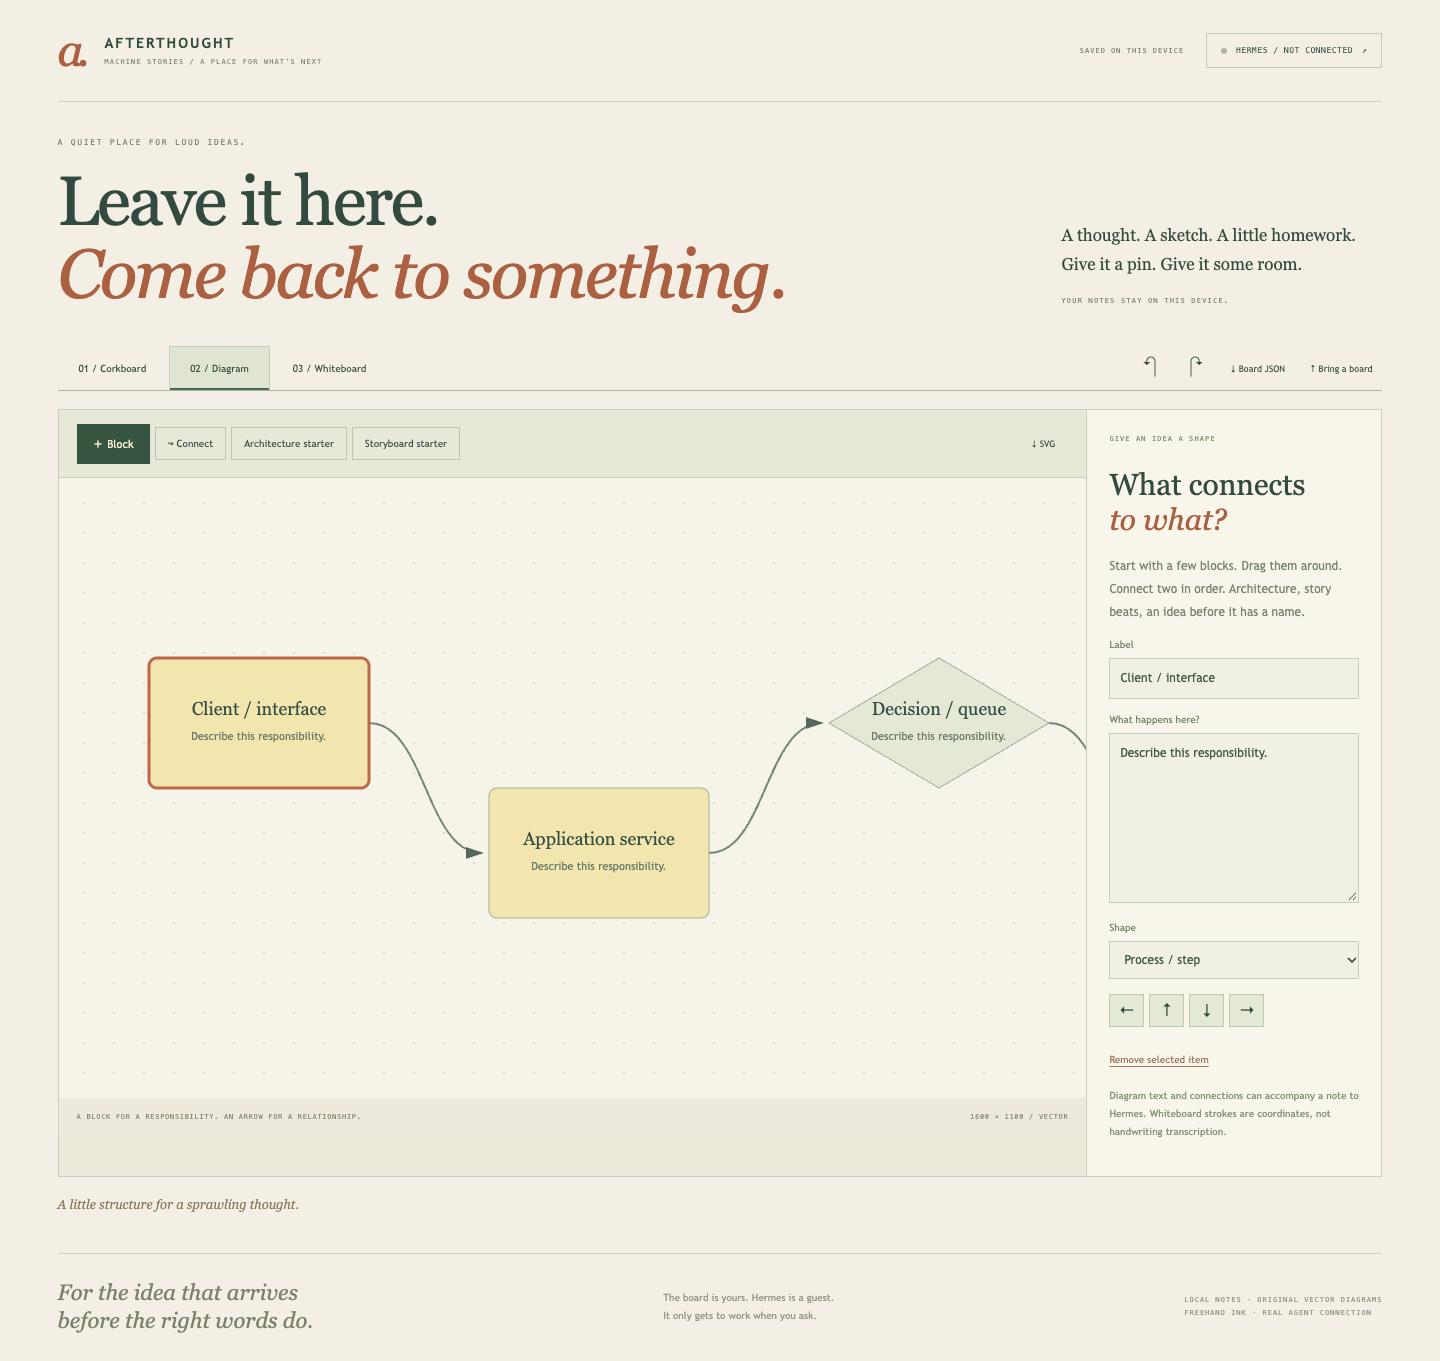
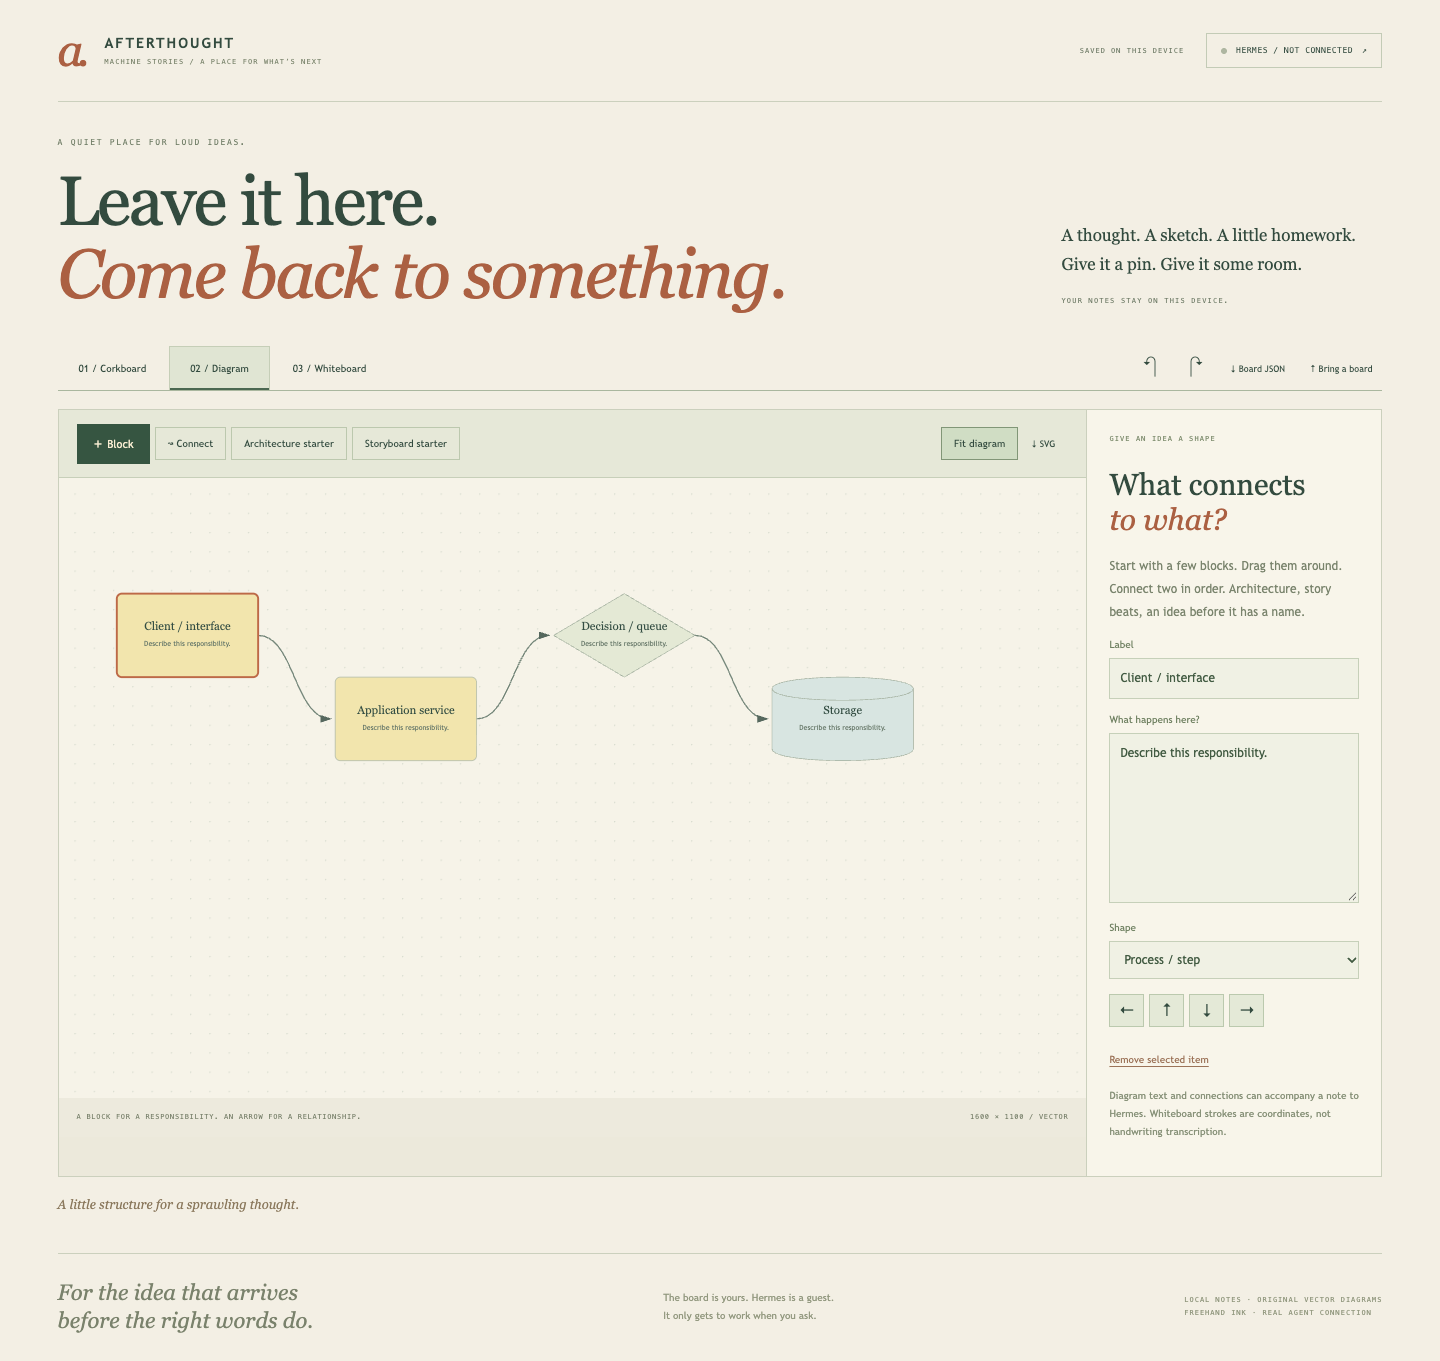
Polish diagram navigation and record verified Afterthought release

diff --git a/src/main.ts b/src/main.ts
@@ -42,7 +42,7 @@ $("app").innerHTML =
 <main><section class="intro"><div><p class="eyebrow">A QUIET PLACE FOR LOUD IDEAS.</p><h1>Leave it here.<br><em>Come back to something.</em></h1></div><div class="intro-note">A thought. A sketch. A little homework.<br>Give it a pin. Give it some room.<span>YOUR NOTES STAY ON THIS DEVICE.</span></div></section>
 <div class="workspace-top"><nav aria-label="Workspace mode"><button data-mode="board" aria-pressed="true">01 / Corkboard</button><button data-mode="diagram" aria-pressed="false">02 / Diagram</button><button data-mode="whiteboard" aria-pressed="false">03 / Whiteboard</button></nav><div class="history"><button id="undo" aria-label="Undo edit">↶</button><button id="redo" aria-label="Redo edit">↷</button><button id="export-board">↓ Board JSON</button><label class="file-label" for="import-board">↑ Bring a board</label><input id="import-board" class="sr-only" type="file" accept=".json,application/json"></div></div>
 <section id="board-panel" class="workspace"><div class="surface-area"><div class="mode-toolbar"><label class="board-title-label" for="board-title">ON THE BOARD<input id="board-title" maxlength="120"></label><div><button id="new-note" class="primary">＋ A new thought</button><button id="board-png" class="quiet">↓ Snapshot</button></div></div><div id="cork-viewport" class="cork-viewport"><div id="cork" class="cork" aria-label="Corkboard with movable notes"><div class="board-tag">NO THOUGHT TOO SMALL.<span>KEEP THE UNFINISHED ONES, TOO.</span></div><div id="notes"></div></div></div><div class="surface-caption"><span>DRAG A NOTE BY ITS TOP EDGE. SCROLL TO FIND MORE ROOM.</span><span id="note-count"></span></div></div><aside id="note-inspector"><div class="inspector-id">THE NOTE IN FRONT OF YOU</div><div id="empty-selection"><h2>Pick a thought.<br><em>Stay a while.</em></h2><p>Select a note to write, choose a color, or give Hermes a task.</p><button id="empty-new" class="outline">＋ Make some room for an idea</button></div><div id="note-editor" hidden><label for="note-title">A little title</label><input id="note-title" maxlength="120"><label for="note-body">The brain dump</label><textarea id="note-body" maxlength="20000" rows="10" placeholder="It doesn’t have to be polished."></textarea><div id="note-colors" class="swatches" role="group" aria-label="Note color">${["butter", "rose", "sage", "blue"].map((c) => `<button data-color="${c}" class="swatch ${c}" aria-label="${c} note" aria-pressed="false"></button>`).join("")}</div><div id="task-state" role="status"></div><button id="read-reply" class="outline full" hidden>↗ Read Hermes’s reply</button><div class="agent-context"><label><input id="include-diagram" type="checkbox"> Include this board’s diagram</label><label><input id="include-ink" type="checkbox"> Include whiteboard stroke coordinates</label></div><button id="ask-agent" class="primary full">↗ Leave this with Hermes</button><button id="recover-agent" class="outline full" hidden>Recover this request</button><button id="check-agent" class="outline full" hidden>Check the run again</button><button id="stop-agent" class="outline full" hidden>Ask Hermes to stop</button><p class="privacy-note">Only the selected note and checked attachments are sent. Your Hermes provider and tools determine where that work runs.</p><button id="delete-note" class="text-button">Remove this note</button></div></aside></section>
-<section id="diagram-panel" class="workspace" hidden><div class="surface-area"><div class="mode-toolbar"><div class="tool-group"><button id="add-block" class="primary">＋ Block</button><button id="connect-blocks" aria-pressed="false">↝ Connect</button><button id="architecture">Architecture starter</button><button id="storyboard">Storyboard starter</button></div><button id="diagram-svg" class="quiet">↓ SVG</button></div><div class="diagram-viewport"><svg id="diagram" xmlns="http://www.w3.org/2000/svg" aria-label="Architecture and storyboard diagram. Select blocks to edit, drag to move, or choose Connect then select two blocks." role="group"></svg></div><div class="surface-caption"><span id="diagram-help">A BLOCK FOR A RESPONSIBILITY. AN ARROW FOR A RELATIONSHIP.</span><span>1600 × 1100 / VECTOR</span></div></div><aside><div class="inspector-id">GIVE AN IDEA A SHAPE</div><h2>What connects<br><em>to what?</em></h2><p>Start with a few blocks. Drag them around. Connect two in order. Architecture, story beats, an idea before it has a name.</p><div id="diagram-editor" hidden><label for="block-label">Label</label><input id="block-label" maxlength="120"><div id="block-fields"><label for="block-detail">What happens here?</label><textarea id="block-detail" maxlength="2000" rows="4"></textarea><label for="block-shape">Shape</label><select id="block-shape"><option value="step">Process / step</option><option value="decision">Decision</option><option value="database">Database</option><option value="frame">Storyboard frame</option></select><div class="nudge" role="group" aria-label="Move selected block"><button data-nudge="-20,0" aria-label="Move block left">←</button><button data-nudge="0,-20" aria-label="Move block up">↑</button><button data-nudge="0,20" aria-label="Move block down">↓</button><button data-nudge="20,0" aria-label="Move block right">→</button></div></div><button id="delete-block" class="text-button">Remove selected item</button></div><p class="small">Diagram text and connections can accompany a note to Hermes. Whiteboard strokes are coordinates, not handwriting transcription.</p></aside></section>
+<section id="diagram-panel" class="workspace" hidden><div class="surface-area"><div class="mode-toolbar"><div class="tool-group"><button id="add-block" class="primary">＋ Block</button><button id="connect-blocks" aria-pressed="false">↝ Connect</button><button id="architecture">Architecture starter</button><button id="storyboard">Storyboard starter</button></div><div><button id="diagram-fit" aria-pressed="true">Fit diagram</button><button id="diagram-svg" class="quiet">↓ SVG</button></div></div><div class="diagram-viewport"><svg id="diagram" class="fit" xmlns="http://www.w3.org/2000/svg" aria-label="Architecture and storyboard diagram. Select blocks to edit, drag to move, or choose Connect then select two blocks." role="group"></svg></div><div class="surface-caption"><span id="diagram-help">A BLOCK FOR A RESPONSIBILITY. AN ARROW FOR A RELATIONSHIP.</span><span>1600 × 1100 / VECTOR</span></div></div><aside><div class="inspector-id">GIVE AN IDEA A SHAPE</div><h2>What connects<br><em>to what?</em></h2><p>Start with a few blocks. Drag them around. Connect two in order. Architecture, story beats, an idea before it has a name.</p><div id="diagram-editor" hidden><label for="block-label">Label</label><input id="block-label" maxlength="120"><div id="block-fields"><label for="block-detail">What happens here?</label><textarea id="block-detail" maxlength="2000" rows="4"></textarea><label for="block-shape">Shape</label><select id="block-shape"><option value="step">Process / step</option><option value="decision">Decision</option><option value="database">Database</option><option value="frame">Storyboard frame</option></select><div class="nudge" role="group" aria-label="Move selected block"><button data-nudge="-20,0" aria-label="Move block left">←</button><button data-nudge="0,-20" aria-label="Move block up">↑</button><button data-nudge="0,20" aria-label="Move block down">↓</button><button data-nudge="20,0" aria-label="Move block right">→</button></div></div><button id="delete-block" class="text-button">Remove selected item</button></div><p class="small">Diagram text and connections can accompany a note to Hermes. Whiteboard strokes are coordinates, not handwriting transcription.</p></aside></section>
 <section id="whiteboard-panel" hidden><div class="ink-shell" id="ink-shell"><div class="mode-toolbar ink-toolbar"><div class="tool-group"><button id="pen" aria-pressed="true">✎ Pen</button><button id="eraser" aria-pressed="false">⌫ Eraser</button><label>Ink <input id="ink-color" type="color" value="#355447"></label><label>Weight <input id="ink-width" type="range" min="1" max="16" value="4"></label><label><input id="touch-draw" type="checkbox" checked> Draw with touch</label></div><div><button id="ink-png" class="quiet">↓ PNG</button><button id="focus-ink">Expand page</button><button id="clear-ink" class="quiet">Clear ink</button></div></div><div class="paper-wrap"><canvas id="ink" width="1100" height="1600" aria-label="Freehand whiteboard. Draw with mouse, touch, or a pressure-sensitive pen. Use the eraser or Undo to remove strokes." tabindex="0"></canvas></div><div class="surface-caption"><span>ROOM TO THINK WITH YOUR HANDS. PEN PRESSURE SUPPORTED.</span><span id="ink-count">0 STROKES</span></div></div></section>
 <p id="status" class="status" role="status">No rush. Put something down.</p><section class="afterword"><p>For the idea that arrives<br>before the right words do.</p><span>The board is yours. Hermes is a guest.<br>It only gets to work when you ask.</span><span>LOCAL NOTES · ORIGINAL VECTOR DIAGRAMS<br>FREEHAND INK · REAL AGENT CONNECTION</span></section></main>
 <dialog id="setup-dialog"><form method="dialog"><button class="dialog-close" aria-label="Close Hermes setup">×</button></form><p class="eyebrow">A SEAT AT THE BOARD</p><h2>Let Hermes<br><em>take a thought further.</em></h2><p>This board connects to <a href="https://hermes-agent.nousresearch.com/docs/user-guide/features/api-server" target="_blank" rel="noreferrer">Nous Research’s Hermes Agent</a>. The public demo is a local notebook; agent work requires your own installed gateway and configured model provider.</p><ol class="setup-steps"><li><b>Install and configure Hermes.</b><a href="https://hermes-agent.nousresearch.com/docs/getting-started/installation" target="_blank" rel="noreferrer">Open the official installation guide ↗</a><span>Then run <code>hermes setup</code> and choose a model provider. Its charges and tools are separate from this board.</span></li><li><b>Enable the gateway API.</b><span>In your Hermes configuration, set <code>API_SERVER_ENABLED=true</code> and a strong <code>API_SERVER_KEY</code>. Start <code>hermes gateway</code>.</span></li><li><b>Start this board locally.</b><span>Copy <code>.env.example</code> to <code>.env.local</code>, set <code>HERMES_API_KEY</code> to that same gateway key, then run:</span><pre>npm ci
@@ -633,6 +633,11 @@ $("delete-block").onclick = () => {
   diagramSelected = null;
   persist();
   diagramEditor();
+};
+$("diagram-fit").onclick = () => {
+  const fit = svg.classList.toggle("fit");
+  $("diagram-fit").setAttribute("aria-pressed", String(fit));
+  $("diagram-fit").textContent = fit ? "Fit diagram" : "Actual size";
 };
 $("diagram-svg").onclick = () => {
   const copy = svg.cloneNode(true) as SVGSVGElement;

diff --git a/src/style.css b/src/style.css
@@ -576,10 +576,11 @@ aside p.privacy-note {
   display: block;
   width: 1600px;
   height: 1100px;
-  touch-action: none;
+  touch-action: pan-x pan-y;
   user-select: none;
 }
 .diagram-viewport svg [data-node] {
+  touch-action: none;
   cursor: grab;
 }
 .diagram-viewport svg [data-edge] {
@@ -977,4 +978,10 @@ dialog a {
     transition: none !important;
     scroll-behavior: auto !important;
   }
+}
+
+.diagram-viewport svg.fit {
+  width: 100%;
+  min-width: 640px;
+  height: auto;
 }

diff --git a/TASKS.md b/TASKS.md
@@ -7,6 +7,6 @@ Implement the next uncompleted ticket. Read SPEC.md and existing code. Preserve 
 - [x] B3 — Native SVG architecture/storyboard tool, labels, directed links, templates, dragging and keyboard editing. Check `npm run test:e2e` and SVG export.
 - [x] B4 — Portrait freehand ink, pressure/coalesced samples, single active pen/touch pointer, vector eraser, incremental draw, undo/export and expand. Check `npm run test:e2e`; synthetic pressure is not physical iPad verification.
 - [x] B5 — Real Hermes Runs API bridge and setup guide, server-held credentials, explicit submission/context, idempotency recovery, receipt polling/reply dedup and honest terminal states. Check `npm run test:bridge && npm test`; external model execution needs user configuration.
-- [ ] B6 — Current media, documentation, clean clone/type/unit/bridge/browser/build checks, production path, public deployment and verified live URL. `npm run typecheck && npm test && npm run test:bridge && npm run test:e2e && BASE_PATH=/machine-stories/ npm run build`; `npm run demo:capture`.
+- [x] B6 — Current media, documentation, clean clone/type/unit/bridge/browser/build checks, production path, public deployment and verified live URL. `npm run typecheck && npm test && npm run test:bridge && npm run test:e2e && BASE_PATH=/machine-stories/ npm run build`; `npm run demo:capture`.
 
 Fresh-machine follow-up after user installs/configures Hermes: connect, submit a harmless note, verify the actual gateway receipt and pinned final response, reload, and confirm no duplicate run or reply. This is a setup-dependent verification item, not a fake completed run.

diff --git a/BUILD_LOG.md b/BUILD_LOG.md
@@ -31,3 +31,5 @@ Ben requested a corkboard of personal brain dumps and sticky notes with a Hermes
 Implemented local board transfer/undo, original cork/paper styling, editable SVG diagrams, portrait freehand ink, single-pointer pressure/coalescing handling and incremental stroke drawing. Browser testing found untrusted synthetic pointer capture lacks a native capture target, and pressure is represented as float32. Fixture handling and precision checks now reflect those facts. Mouse ink, erasing, storage and redraw are exercised separately.
 
 Used official Hermes Runs API for asynchronous receipt/reconciliation instead of treating interim text as completion. Added loopback server-side credential bridge, explicit selected context, immutable idempotency input, retry/recovery, response dedup, and distinct failed/unknown/partial/cancelled states. Actual disconnected bridge was checked with no Hermes installed. Five HTTP contract tests and six pure state cases passed; twelve Chromium/WebKit scenarios passed. These do not establish real configured Hermes execution or physical Pencil behavior.
+
+Release checks: clean-clone install/build/model/bridge/browser suite passed. Confirmed real disconnected health through the Vite proxy, not only the bridge port. Production base path and first public Pages build passed real notebook/diagram/ink interactions. Added fit/actual-size diagram viewing so a full architecture can be seen at once, while touch can pan the larger diagram. The latest code is verified by CI before final delivery.

diff --git a/docs/VERIFICATION.md b/docs/VERIFICATION.md
@@ -5,3 +5,5 @@ M4 Mac, 24 GB RAM, Node 24.22.1. Six model cases, five local HTTP bridge contrac
 The actual Node bridge is running at 127.0.0.1:8766 without credentials and returns `connected:false, configured:false`; this is expected for a fresh machine. Hermes is not installed/configured, so no model/tool run or agent task outcome is claimed. Install/configure Hermes and follow README to perform that separate live check. Physical iPad/Apple Pencil hardware remains untested; desktop WebKit and synthetic pen events do not establish native hardware quality.
 
 Current screenshots: overview.png, diagram.png, whiteboard.png. Current 50-second video records the real notebook interface and disconnected setup guide, with no fabricated agent reply. Repository-base and public Pages smoke checks are stored separately in JSON. Earlier exhibit evidence remains in Git history; its performance numbers do not apply to this application.
+
+A fresh Git clone passed npm ci, type/model/bridge checks, all twelve browser checks and the production repository-path build. The real local Vite proxy returned the actual disconnected bridge state with credentials omitted from evidence. The first public Afterthought deployment passed notebook persistence, diagram creation and actual mouse ink with no page errors, HTTP failures or external application requests.

diff --git a/docs/PUBLISHING.md b/docs/PUBLISHING.md
@@ -13,3 +13,5 @@ BASE_PATH=/machine-stories/ npm run preview
 ```
 
 Visit the preview origin followed by `/machine-stories/`. Production/public browser evidence files identify the checked version and explicitly record the unconfigured agent boundary. All five portfolio repositories remain pinned; Afterthought replaces the earlier exhibit at the existing Machine Stories URL.
+
+Afterthought v2 [first verified deployment](https://github.com/bblevick/machine-stories/actions/runs/40147159244) passed GitHub checks and the public interaction smoke test. Final atlas-fit polish and release evidence are checked again by the same workflow.
